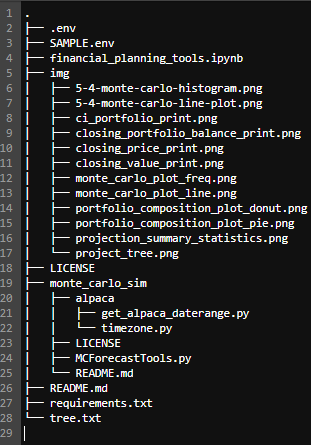
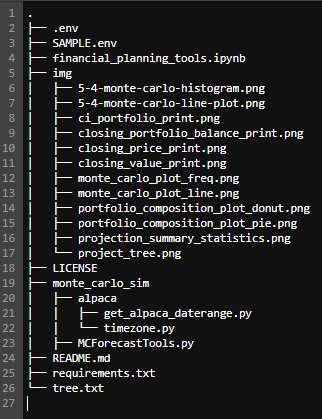
Added /monte_carlo_sim/ folder without pointers to git repo.

Changed region(s): [[0.0, 0.0, 1.0, 1.0]]

diff --git a/monte_carlo_sim/MCForecastTools.py b/monte_carlo_sim/MCForecastTools.py
@@ -1,0 +1,204 @@
+# Import libraries and dependencies
+import datetime as dt
+import os
+import warnings
+
+import alpaca_trade_api as tradeapi
+import numpy as np
+import pandas as pd
+import pytz
+
+
+class MCSimulation:
+    """
+    A Python class for runnning Monte Carlo simulation on portfolio price data. 
+    
+    ...
+    
+    Attributes
+    ----------
+    portfolio_data : pandas.DataFrame
+        portfolio dataframe
+    weights: list(float)
+        portfolio investment breakdown
+    nSim: int
+        number of samples in simulation
+    nTrading: int
+        number of trading days to simulate
+    simulated_return : pandas.DataFrame
+        Simulated data from Monte Carlo
+    confidence_interval : pandas.Series
+        the 95% confidence intervals for simulated final cumulative returns
+        
+    """
+    
+    def __init__(self, portfolio_data, weights="", num_simulation=1000, num_trading_days=252):
+        """
+        Constructs all the necessary attributes for the MCSimulation object.
+
+        Parameters
+        ----------
+        portfolio_data: pandas.DataFrame
+            DataFrame containing stock price information from Alpaca API
+        weights: list(float)
+            A list fractions representing percentage of total investment per stock. DEFAULT: Equal distribution
+        num_simulation: int
+            Number of simulation samples. DEFAULT: 1000 simulation samples
+        num_trading_days: int
+            Number of trading days to simulate. DEFAULT: 252 days (1 year of business days)
+        """
+        
+        # Check to make sure that all attributes are set
+        if not isinstance(portfolio_data, pd.DataFrame):
+            raise TypeError("portfolio_data must be a Pandas DataFrame")
+            
+        # Set weights if empty, otherwise make sure sum of weights equals one.
+        if weights == "":
+            num_stocks = len(portfolio_data.columns.get_level_values(0).unique())
+            weights = [1.0/num_stocks for s in range(0,num_stocks)]
+        else:
+            if round(sum(weights),2) < .99:
+                raise AttributeError("Sum of portfolio weights must equal one.")
+        
+        # Calculate daily return if not within dataframe
+        if not "daily_return" in portfolio_data.columns.get_level_values(1).unique():
+            close_df = portfolio_data.xs('close',level=1,axis=1).pct_change()
+            tickers = portfolio_data.columns.get_level_values(0).unique()
+            column_names = [(x,"daily_return") for x in tickers]
+            close_df.columns = pd.MultiIndex.from_tuples(column_names)
+            portfolio_data = portfolio_data.merge(close_df,left_index=True,right_index=True).reindex(columns=tickers,level=0)    
+        
+        # Set class attributes
+        self.portfolio_data = portfolio_data
+        self.weights = weights
+        self.nSim = num_simulation
+        self.nTrading = num_trading_days
+        self.simulated_return = ""
+        
+    def calc_cumulative_return(self):
+        """
+        Calculates the cumulative return of a stock over time using a Monte Carlo simulation (Brownian motion with drift).
+
+        """
+        
+        # Get closing prices of each stock
+        last_prices = self.portfolio_data.xs('close',level=1,axis=1)[-1:].values.tolist()[0]
+        
+        # Calculate the mean and standard deviation of daily returns for each stock
+        daily_returns = self.portfolio_data.xs('daily_return',level=1,axis=1)
+        mean_returns = daily_returns.mean().tolist()
+        std_returns = daily_returns.std().tolist()
+        
+        # Initialize empty Dataframe to hold simulated prices
+        portfolio_cumulative_returns = pd.DataFrame()
+        
+        # Run the simulation of projecting stock prices 'nSim' number of times
+        for n in range(self.nSim):
+        
+            if n % 10 == 0:
+                print(f"Running Monte Carlo simulation number {n}.")
+        
+            # Create a list of lists to contain the simulated values for each stock
+            simvals = [[p] for p in last_prices]
+    
+            # For each stock in our data:
+            for s in range(len(last_prices)):
+
+                # Simulate the returns for each trading day
+                for i in range(self.nTrading):
+        
+                    # Calculate the simulated price using the last price within the list
+                    simvals[s].append(simvals[s][-1] * (1 + np.random.normal(mean_returns[s], std_returns[s])))
+    
+            # Calculate the daily returns of simulated prices
+            sim_df = pd.DataFrame(simvals).T.pct_change()
+    
+            # Use the `dot` function with the weights to multiply weights with each column's simulated daily returns
+            sim_df = sim_df.dot(self.weights)
+    
+            # Calculate the normalized, cumulative return series
+            portfolio_cumulative_returns = pd.concat([portfolio_cumulative_returns, sim_df], axis=1)
+
+        portfolio_cumulative_returns.columns = range(0, self.nSim)
+        portfolio_cumulative_returns = (1 + portfolio_cumulative_returns.fillna(0)).cumprod()
+        
+        # Set attribute to use in plotting
+        self.simulated_return = portfolio_cumulative_returns
+        
+        # Calculate 95% confidence intervals for final cumulative returns
+        self.confidence_interval = portfolio_cumulative_returns.iloc[-1, :].quantile(q=[0.025, 0.975])
+        
+        return portfolio_cumulative_returns
+    
+    def plot_simulation(self, **kwargs):
+        """
+        Visualizes the simulated stock trajectories using calc_cumulative_return method.
+
+        """ 
+        
+        # Check to make sure that simulation has run previously. 
+        if not isinstance(self.simulated_return,pd.DataFrame):
+            self.calc_cumulative_return()
+            
+        # Use Pandas plot function to plot the return data
+        plot_title = f"{self.nSim} Simulations of Cumulative Portfolio Return Trajectories Over the Next {self.nTrading} Trading Days."
+        cond       = ("legend" in kwargs.keys(), "title" in kwargs.keys())
+
+        plot_params_switch = {
+            #legend, title
+            (False,  False): lambda : self.simulated_return.plot(legend=None,title=plot_title, **kwargs),
+            (False,  True):  lambda : self.simulated_return.plot(legend=None, **kwargs),
+            (True,   False): lambda : self.simulated_return.plot(title=plot_title, **kwargs),
+            (True,   True):  lambda : self.simulated_return.plot(**kwargs),
+		}
+
+        return plot_params_switch.get(cond)()
+    
+    def plot_distribution(self, **kwargs):
+        """
+        Visualizes the distribution of cumulative returns simulated using calc_cumulative_return method.
+
+        """
+        
+        # Check to make sure that simulation has run previously. 
+        if not isinstance(self.simulated_return,pd.DataFrame):
+            self.calc_cumulative_return()
+        
+        # Use the `plot` function to create a probability distribution histogram of simulated ending prices
+        # with markings for a 95% confidence interval
+        plot_title = f"Distribution of Final Cumuluative Returns Across All {self.nSim} Simulations"
+        cond       = "title" in kwargs.keys()
+
+        # Remove invalid keyword arguments and keep default
+        for key, val in {"kind": "hist", "bins": 10, "density": True}.items():
+            if key in kwargs.keys():
+                warn_str = f'Key "{key}" must be "{val}"! Cannot alter to "{kwargs[key]}".'
+                warnings.warn(warn_str, UserWarning, stacklevel=1)
+                kwargs.pop(key, None)
+
+        # Create histogram plot
+        plot_params_switch = {
+            #title
+            True:  lambda : self.simulated_return.iloc[-1, :].plot(kind='hist', bins=10, density=True, **kwargs),
+            False: lambda : self.simulated_return.iloc[-1, :].plot(kind='hist', bins=10, density=True, title=plot_title, **kwargs),
+		}
+
+        plt = plot_params_switch.get(cond)()
+        plt.axvline(self.confidence_interval.iloc[0], color='r')
+        plt.axvline(self.confidence_interval.iloc[1], color='r')
+        return plt
+    
+    def summarize_cumulative_return(self):
+        """
+        Calculate final summary statistics for Monte Carlo simulated stock data.
+        
+        """
+        
+        # Check to make sure that simulation has run previously. 
+        if not isinstance(self.simulated_return,pd.DataFrame):
+            self.calc_cumulative_return()
+            
+        metrics = self.simulated_return.iloc[-1].describe()
+        ci_series = self.confidence_interval
+        ci_series.index = ["95% CI Lower","95% CI Upper"]
+        return metrics.append(ci_series)

diff --git a/monte_carlo_sim/alpaca/timezone.py b/monte_carlo_sim/alpaca/timezone.py
@@ -1,0 +1,22 @@
+import pandas as pd
+
+from dateutil import tz
+
+
+def set_et_timestamp(client_timestamp):
+    et_zone = tz.gettz('America/New_York')
+
+    return client_timestamp.astimezone(et_zone)
+
+
+def get_et_datetime(client_timestamp, strformat):
+    # Find the set timezone and convert to "America/New_York" (ET).
+    et_timestamp = set_et_timestamp(client_timestamp)
+    
+    return et_timestamp.strftime(strformat)
+
+
+def get_et_pd_timestamp(client_timestamp):
+    et_timestamp = set_et_timestamp(client_timestamp)    
+
+    return pd.Timestamp(et_timestamp)

diff --git a/monte_carlo_sim/alpaca/get_alpaca_daterange.py b/monte_carlo_sim/alpaca/get_alpaca_daterange.py
@@ -1,0 +1,14 @@
+import pandas as pd
+
+
+def dateranges(start_date, end_date):
+    end_date   = end_date + pd.Timedelta(days=1)
+    time_frame = pd.date_range(start_date, end_date, periods=4)
+    
+    sd_func = lambda sd: sd.isoformat()
+    ed_func = lambda ed: (ed-pd.Timedelta(days=1)).replace(hour=00).isoformat()
+    
+    pairs_time_frame = [[sd_func(sd), ed_func(ed)] for sd, ed in zip(time_frame[::1], time_frame[1::1])]
+    
+    return pairs_time_frame
+	
